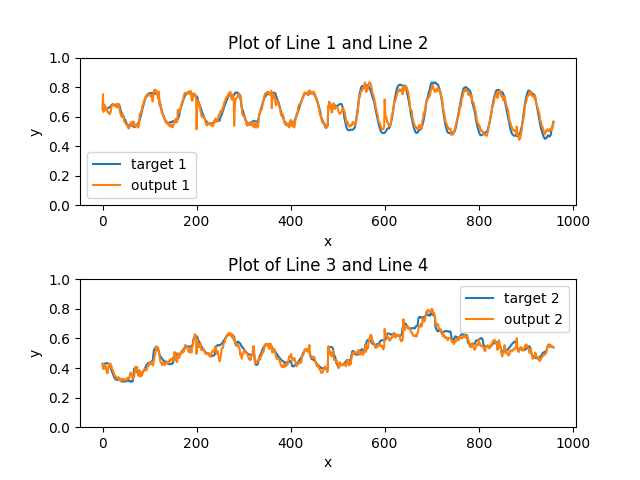
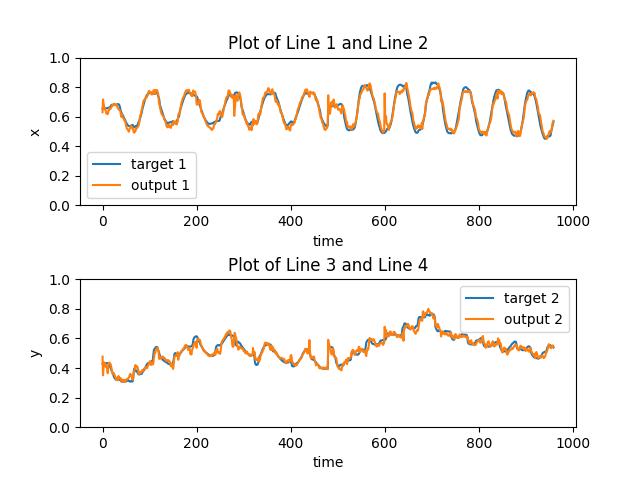
fix legend name in plotting

diff --git a/eyetracking-convlstm/convlstm-et-pytorch-event.py b/eyetracking-convlstm/convlstm-et-pytorch-event.py
@@ -390,8 +390,8 @@ for epoch in range(num_epochs):
             # Plot l1 and l2 in the first subplot
             ax1.plot(t_l_numpy, label='target 1')
             ax1.plot(o_l_numpy, label='output 1')
-            ax1.set_xlabel('x')
-            ax1.set_ylabel('y')
+            ax1.set_xlabel('time')
+            ax1.set_ylabel('x')
             ax1.set_title('Plot of Line 1 and Line 2')
             ax1.set_ylim([0, 1])
             ax1.legend()
@@ -399,7 +399,7 @@ for epoch in range(num_epochs):
             # Plot l3 and l4 in the second subplot
             ax2.plot(t_r_numpy, label='target 2')
             ax2.plot(o_r_numpy, label='output 2')
-            ax2.set_xlabel('x')
+            ax2.set_xlabel('time')
             ax2.set_ylabel('y')
             ax2.set_title('Plot of Line 3 and Line 4')
             ax2.set_ylim([0, 1])
